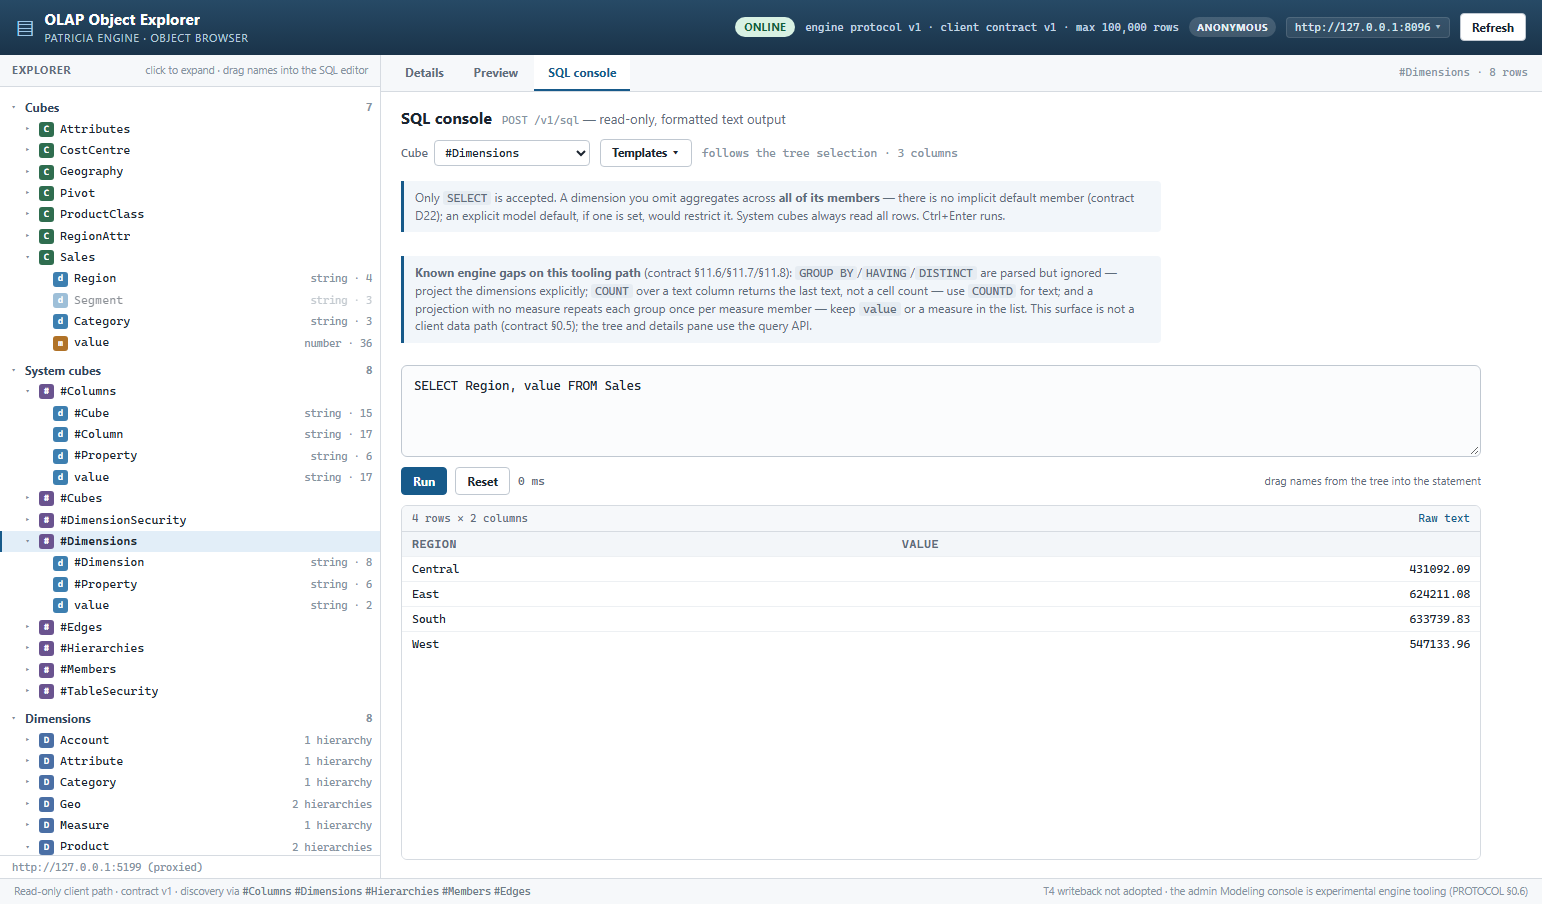
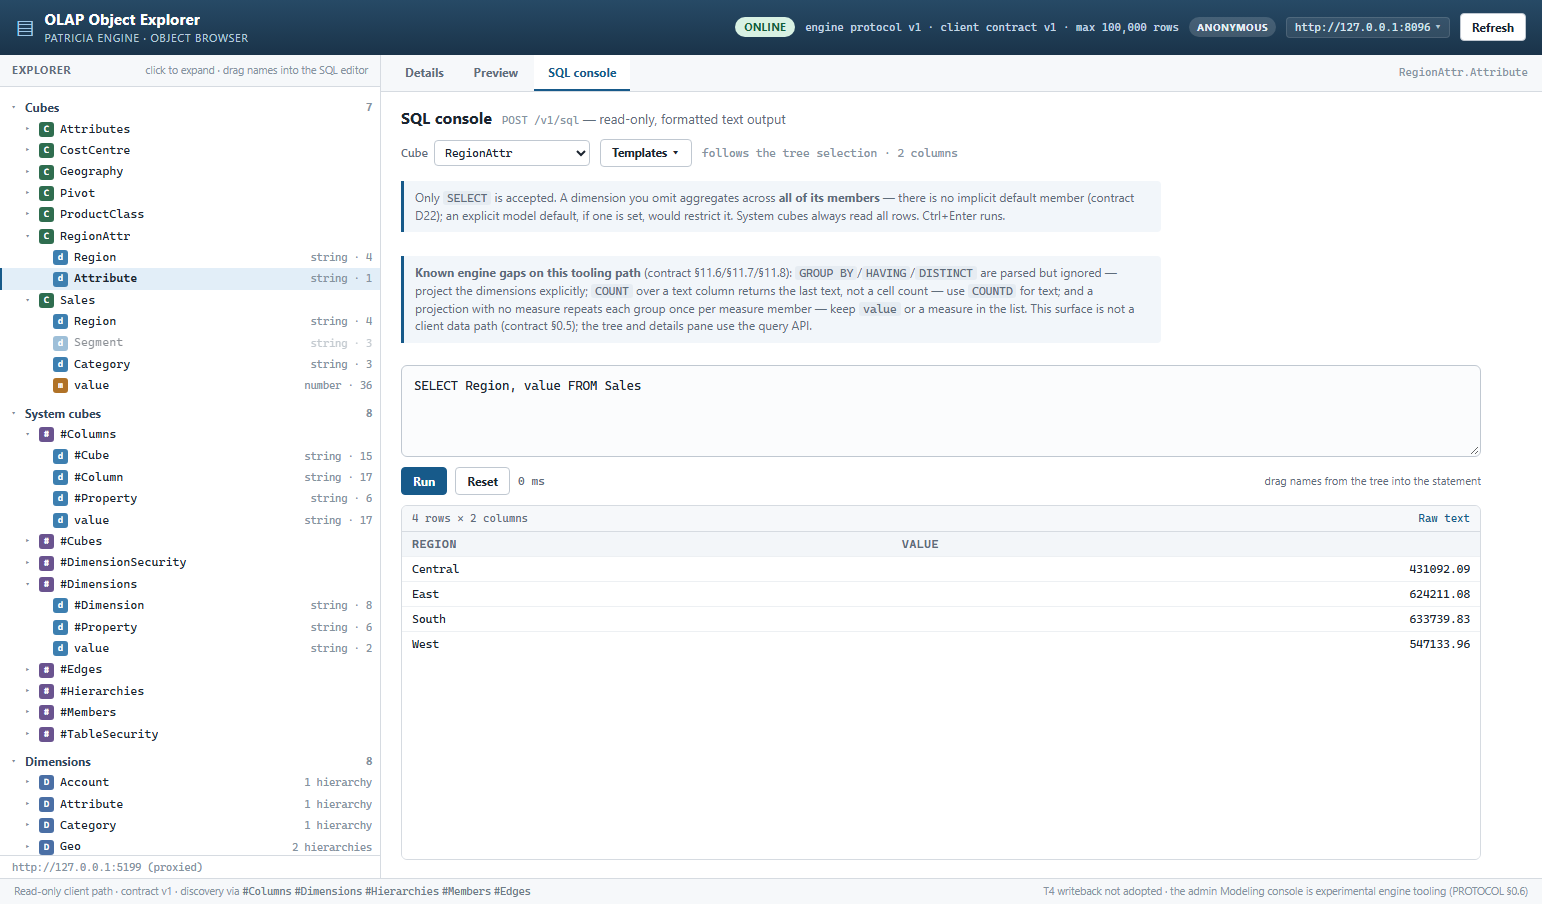
fix(sql): cube-type-aware templates for attribute tables (handoff 024)
- Attribute tables are pivot sources: their measure dimension (attribute
  names, hinted as a dimension by describe) is excluded from projections.
  Row sample is now key dimensions + value; By <attribute> is unavailable and
  Totals is omitted; normal cubes keep the existing three templates.
- Unit-test normal and attribute synthetic describe shapes plus the UI check on
  RegionAttr (SELECT Region, value FROM RegionAttr LIMIT 50, no by-attribute,
  no totals). README documents the rule; screenshot 12 added.

diff --git a/src/sqlTemplates.ts b/src/sqlTemplates.ts
@@ -10,12 +10,14 @@ import type { ColumnDescription, DatasetDescription } from './types';
  * Semantics that shape the templates:
  *  - A dimension omitted from `groupBy` and filters contributes ALL of its base
  *    members to the aggregation (explicit-default semantics, contract D22).
- *    So an aggregate template without a dimension is a whole-model total today,
- *    not an arbitrary slice.
  *  - `value` is the measure-dimension expansion: on a cube with a measure
  *    dimension it yields one column per measure (PROTOCOL §5.2/§5.3).
  *  - A projection with NO measures repeats each group once per measure member
  *    (§11.8), so every template includes `value` or a measure.
+ *  - **Attribute tables** (`isAttributeTable`) are pivot sources: their measure
+ *    dimension holds ATTRIBUTE NAMES and its cells hold the values. Projecting
+ *    that column together with `value` is the refused combination (PROTOCOL
+ *    §11.4), so it is excluded from every template (handoff 024).
  *  - SQL has no `SELECT *` and no column aliases here; templates stay plain.
  */
 
@@ -28,13 +30,10 @@ export interface SqlTemplate {
 }
 
 /**
- * Dimensions a template can project: real dimension columns, not the measure axis.
- *
- * The engine reports the trailing `value` cell of a **system cube** as
+ * Dimensions a template can project: real dimension columns, not the `value`
+ * token. The engine reports a system cube's trailing `value` cell as
  * `suggestedKind: "dimension"` (e.g. `#Dimensions` → `#Dimension`, `#Property`,
- * `value`). `value` is the SQL measure token, so it is excluded here and added
- * exactly once by the templates below; otherwise a system cube yields
- * `SELECT …, value, value`.
+ * `value`), so `value` is excluded here and added exactly once below.
  */
 export function dimensionColumns(dataset: DatasetDescription): ColumnDescription[] {
   return dataset.columns.filter(
@@ -42,47 +41,75 @@ export function dimensionColumns(dataset: DatasetDescription): ColumnDescription
   );
 }
 
-export function isDimensionColumn(dataset: DatasetDescription, name: string): boolean {
-  return dimensionColumns(dataset).some((column) => column.name === name);
+/**
+ * Grouping/key dimensions. The measure dimension is never a key: on a normal
+ * cube it is the axis whose members are measures, and on an attribute table it
+ * is the attribute-name column. `describe` hints an attribute table's text
+ * measure dimension as `suggestedKind: "dimension"` (PROTOCOL §3.2), so kind
+ * alone cannot exclude it.
+ */
+export function keyDimensionColumns(dataset: DatasetDescription): ColumnDescription[] {
+  return dimensionColumns(dataset).filter((column) => column.name !== dataset.measureDimension);
+}
+
+export function isKeyDimension(dataset: DatasetDescription, name: string): boolean {
+  return keyDimensionColumns(dataset).some((column) => column.name === name);
 }
 
 /**
- * The default statement: every dimension plus every measure (`value`), as raw
- * rows. Naming every dimension means no implicit aggregation surprise and no
- * §11.8 duplication; it is the honest "show me the shape" query.
+ * The default statement. For a normal cube: every dimension + `value`. For an
+ * attribute table: key dimensions + `value`, which pivots attributes into
+ * columns — there is no raw EAV form in SQL (handoff 024).
  */
 export function buildRowSample(dataset: DatasetDescription): string {
-  const dimensions = dimensionColumns(dataset).map((column) => column.name);
+  const dimensions = (dataset.isAttributeTable ? keyDimensionColumns(dataset) : dimensionColumns(dataset)).map(
+    (column) => column.name,
+  );
   const projection = dimensions.length > 0 ? [...dimensions, 'value'].join(', ') : 'value';
   return `SELECT ${projection} FROM ${dataset.dataset} LIMIT 50`;
 }
 
-/** One dimension with every measure aggregated over the remaining dimensions. */
+/** One key dimension with every measure aggregated over the remaining dimensions. */
 export function buildByDimension(dataset: DatasetDescription, dimension: string | null): string | null {
-  if (dimension === null || !isDimensionColumn(dataset, dimension)) return null;
+  if (dimension === null || !isKeyDimension(dataset, dimension)) return null;
   return `SELECT ${dimension}, value FROM ${dataset.dataset} LIMIT 100`;
 }
 
-/** Whole-cube totals: one row, one column per measure. */
-export function buildTotals(dataset: DatasetDescription): string {
+/**
+ * Whole-cube totals: never for an attribute table. `SELECT value` there pivots
+ * every attribute column (and aggregating text is misleading); a COUNTD-style
+ * template would be a separate deliberate choice, not this one.
+ */
+export function buildTotals(dataset: DatasetDescription): string | null {
+  if (dataset.isAttributeTable) return null;
   return `SELECT value FROM ${dataset.dataset} LIMIT 10`;
 }
 
 /**
  * The template menu for a cube. `selectedDimension` comes from the tree selection
- * and only enables the "By …" entry when it names a dimension of this cube.
+ * and only enables the "By …" entry when it names a **key** dimension of this
+ * cube (never the attribute/measure dimension).
  */
 export function buildTemplates(
   dataset: DatasetDescription,
   selectedDimension: string | null,
 ): { templates: SqlTemplate[]; byDimensionDisabled: boolean } {
   const byDimension = buildByDimension(dataset, selectedDimension);
+  const totals = buildTotals(dataset);
   const templates: SqlTemplate[] = [
-    { id: 'rows', label: 'Row sample — every dimension + every measure', sql: buildRowSample(dataset) },
+    {
+      id: 'rows',
+      label: dataset.isAttributeTable
+        ? 'Attribute sample — key dimensions + pivoted attributes'
+        : 'Row sample — every dimension + every measure',
+      sql: buildRowSample(dataset),
+    },
   ];
   if (byDimension !== null && selectedDimension !== null) {
     templates.push({ id: 'by-dimension', label: `By ${selectedDimension} — every measure`, sql: byDimension });
   }
-  templates.push({ id: 'totals', label: 'Totals — every measure, whole cube', sql: buildTotals(dataset) });
+  if (totals !== null) {
+    templates.push({ id: 'totals', label: 'Totals — every measure, whole cube', sql: totals });
+  }
   return { templates, byDimensionDisabled: byDimension === null };
 }

diff --git a/src/sql.tsx b/src/sql.tsx
@@ -180,12 +180,9 @@ export function SqlConsole({ datasets, selectedCube, selectedDimension }: SqlCon
     description.status === 'ready' ? buildTemplates(description.description, selectedDimension) : null;
   const canRun = cube !== '' && description.status === 'ready';
   const parsed = result === null ? null : parseSqlTable(result.output);
-  const dimensionSelectionUsable =
-    description.status === 'ready' &&
-    selectedDimension !== null &&
-    description.description.columns.some(
-      (column) => column.suggestedKind === 'dimension' && column.name === selectedDimension,
-    );
+  const rowsTemplate = templates?.templates.find((template) => template.id === 'rows') ?? null;
+  const totalsTemplate = templates?.templates.find((template) => template.id === 'totals') ?? null;
+  const byDimensionDisabled = templates === null || templates.byDimensionDisabled;
 
   return (
     <div className="sql">
@@ -234,19 +231,21 @@ export function SqlConsole({ datasets, selectedCube, selectedDimension }: SqlCon
                 type="button"
                 role="menuitem"
                 data-testid="sql-template-rows"
-                onClick={() => applyTemplate(templates.templates.find((t) => t.id === 'rows')!)}
+                onClick={() => {
+                  if (rowsTemplate !== null) applyTemplate(rowsTemplate);
+                }}
               >
-                Row sample <span className="muted">every dimension + value</span>
+                {rowsTemplate?.label ?? 'Row sample'}
               </button>
               <button
                 type="button"
                 role="menuitem"
                 data-testid="sql-template-by-dimension"
-                disabled={!dimensionSelectionUsable}
+                disabled={byDimensionDisabled}
                 title={
-                  dimensionSelectionUsable
-                    ? `Group by ${selectedDimension}`
-                    : 'Select a dimension column in the tree first'
+                  byDimensionDisabled
+                    ? 'Select a key dimension in the tree first (the attribute/measure column cannot be grouped with value)'
+                    : `Group by ${selectedDimension}`
                 }
                 onClick={() => {
                   const template = templates.templates.find((t) => t.id === 'by-dimension');
@@ -256,14 +255,16 @@ export function SqlConsole({ datasets, selectedCube, selectedDimension }: SqlCon
                 By {selectedDimension ?? 'selected dimension'}{' '}
                 <span className="muted">every measure</span>
               </button>
-              <button
-                type="button"
-                role="menuitem"
-                data-testid="sql-template-totals"
-                onClick={() => applyTemplate(templates.templates.find((t) => t.id === 'totals')!)}
-              >
-                Totals <span className="muted">every measure, whole cube</span>
-              </button>
+              {totalsTemplate !== null && (
+                <button
+                  type="button"
+                  role="menuitem"
+                  data-testid="sql-template-totals"
+                  onClick={() => applyTemplate(totalsTemplate)}
+                >
+                  Totals <span className="muted">every measure, whole cube</span>
+                </button>
+              )}
             </div>
           )}
         </div>

diff --git a/README.md b/README.md
@@ -101,7 +101,7 @@ pin lives in this README and in one code comment (`src/types.ts`).
 | T4 writeback | **not adopted by design** — the engine supports `POST /v1/{dataset}/write` and `POST /v1/save` (`capabilities.supportsWrite: true`); this product's data path does not write |
 | Modeling console | **not a tier** — optional admin CLI console, feature-gated on `capabilities.supportsCli`, experimental engine tooling (PROTOCOL §0.6, D28). An engine without the capability shows no tab, and T0–T3 behavior is unchanged |
 | Verified against | engine `76355a8` for the CLI route (pre-release; not in the live 8080 pair yet), model **v2.2 on catalogue format v3**, contract v1 — 2026-11-15; base client verified against engine release `36afe88`/`12bfef1` (2026-11-10) |
-| Evidence | `tsc --noEmit` exit 0; suite **64/64 checks, exit 0** (see [Verification](#verification)); live scratch-engine CLI smoke: `.help`, `.cubes`, `.import_measures`, `.run`, `.save`, `.exit` no-op, server stays up |
+| Evidence | `tsc --noEmit` exit 0; suite **66/66 checks, exit 0** (see [Verification](#verification)); live scratch-engine CLI smoke: `.help`, `.cubes`, `.import_measures`, `.run`, `.save`, `.exit` no-op, server stays up |
 
 The client validates `capabilities.protocolVersion` before any data request and shows a
 blocking **"Unsupported contract version"** state on a mismatch (PROTOCOL §0.3/§12): a v2
@@ -154,8 +154,10 @@ weights of `0.5` are preserved and unit-tested. Cycles and self-edges cannot han
   cube selected while a dimension/member is active) and generates its starter statement from
   that cube's `describe`, so it never offers a dataset that no longer exists. A **Templates**
   menu offers a row sample (every dimension + every measure, no implicit aggregation),
-  *By &lt;selected dimension&gt;*, and whole-cube totals. **Drag a name** from the tree (or a
-  column row in Details) into the statement to insert it at the caret. Contract-wise this is
+  *By &lt;selected dimension&gt;*, and whole-cube totals. **Attribute tables** (handoff 024) get
+  **key dimensions + `value`** — a pivoted sample — never their attribute/measure column
+  projected with `value`; *By attribute* stays disabled and Totals is omitted. **Drag a name**
+  from the tree (or a column row in Details) into the statement to insert it at the caret. Contract-wise this is
   engine tooling, not a data path (PROTOCOL §0.5); the pane states the remaining gaps (§11.6
   `GROUP BY`/`HAVING` parsed-but-unread, §11.7 `COUNT` over text, §11.8 no-measure duplication).
   The web SQL console is **read-only**: CREATE/INSERT/DROP are refused there by the engine —
@@ -262,7 +264,7 @@ Environment overrides (all optional; workspace defaults shown):
 When no engine binary/reference database is available, phases 3–5 report a skip and phases
 1–2 still run, so a plain clone gets build + unit coverage.
 
-Five phases, **64 checks, all green** (2026-11-19; suite run against the archived v1 demo
+Five phases, **66 checks, all green** (2026-11-20; suite run against the archived v1 demo
 fixture with engine `33ae673`, live-model SQL smoke against model v2.2 / format v3, and a live
 scratch-engine CLI smoke at engine `76355a8`). The fixture keeps the numeric fixtures stable;
 the SQL-console behaviour is model-independent and was also smoke-tested against the live
@@ -303,7 +305,7 @@ the SQL-console behaviour is model-independent and was also smoke-tested against
    restart mid-session produces the "session expired" re-login.
 
 Screenshots: `01`–`05` anonymous walkthrough, `06`–`08` auth phase, `09-domain-values.png`,
-`10-unsupported-version.png`, `11-modeling-console.png`.
+`10-unsupported-version.png`, `11-modeling-console.png`, `12-attribute-templates.png`.
 
 ### Acceptance criteria (engine handoff + contract adoption)
 
@@ -318,6 +320,7 @@ Screenshots: `01`–`05` anonymous walkthrough, `06`–`08` auth phase, `09-doma
 | Contract pin + `protocolVersion` validation | pinned-v1 unit check + v2 stub UI guard |
 | SQL console follows the selected cube | starter-statement check + template/`By …`/drag checks |
 | SQL text table rendered as a table | parser unit check + UI headers/rows/meta/raw-toggle check |
+| Attribute-table templates | unit check (key + `value`, no measure column) + UI check (`RegionAttr`) |
 | `domainFor` exercised (T1 clause) | data checks + Domain pane + unknown-field error |
 | T2 auth under D1 | token is memory/`sessionStorage`; auth phase above |
 | Read-only data path (T4 not adopted) | only GET + `query`/`sql` POSTs by default; the opt-in CLI console is engine tooling, not T4 |
